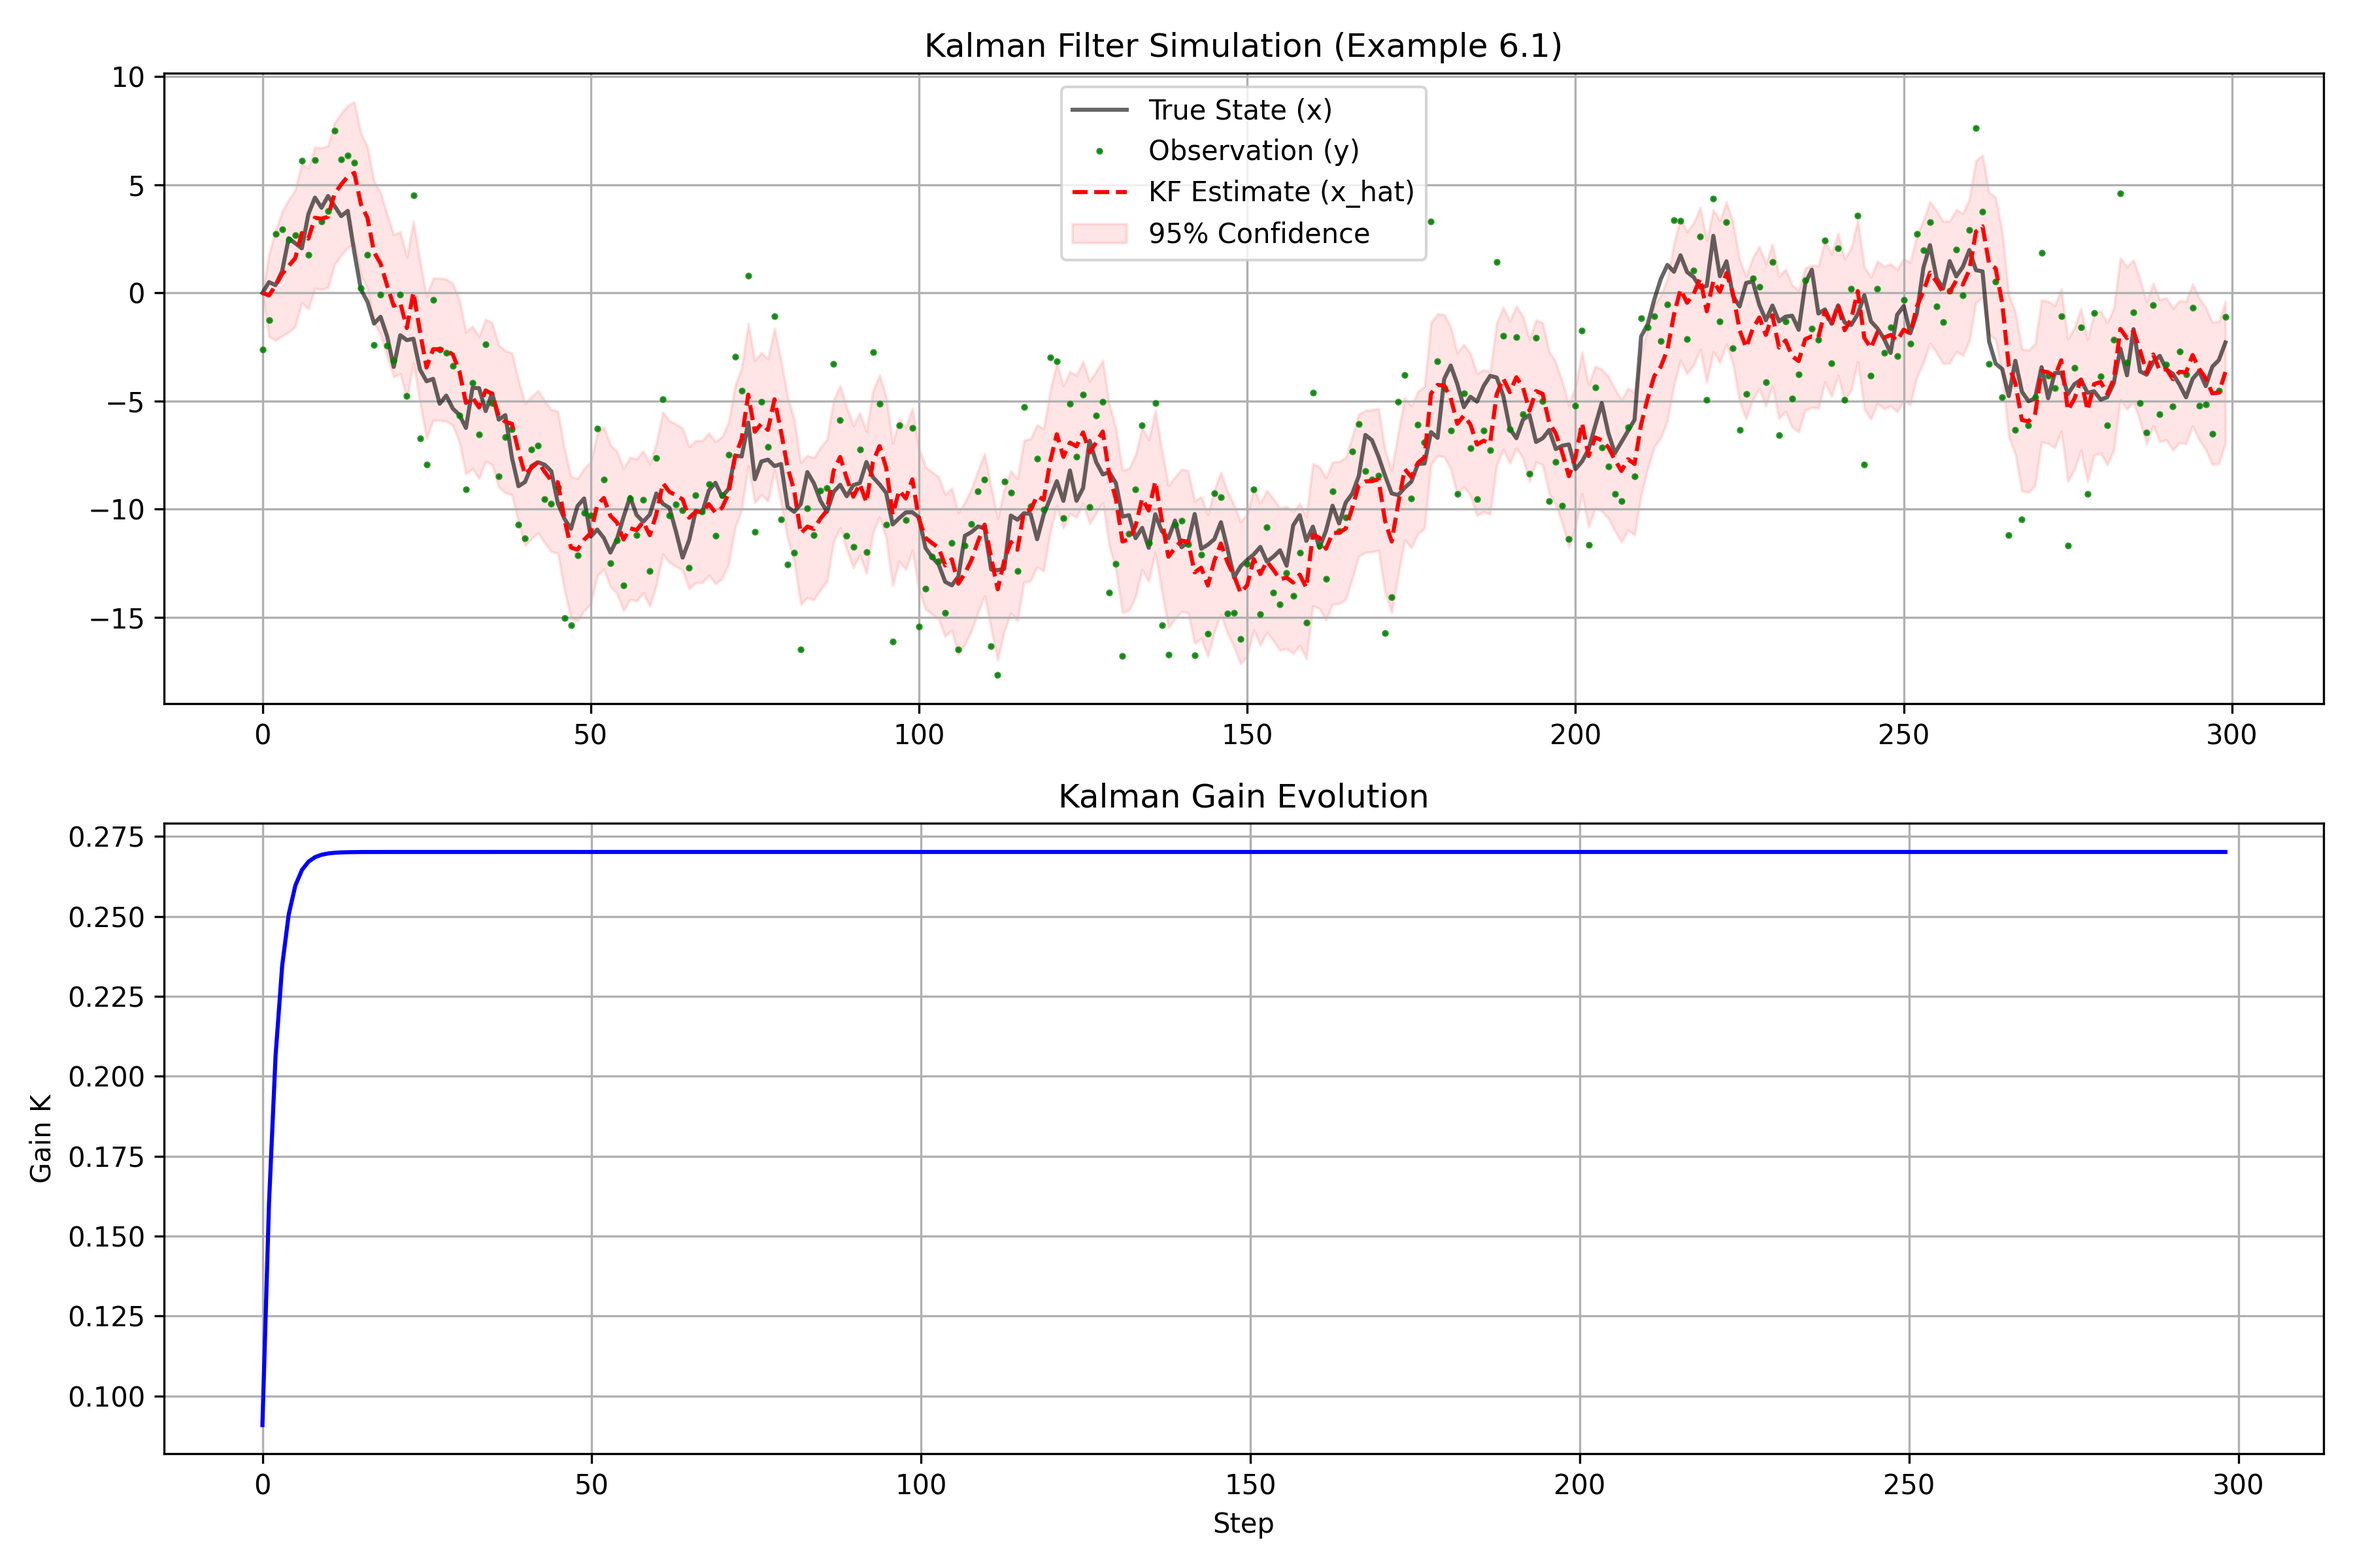
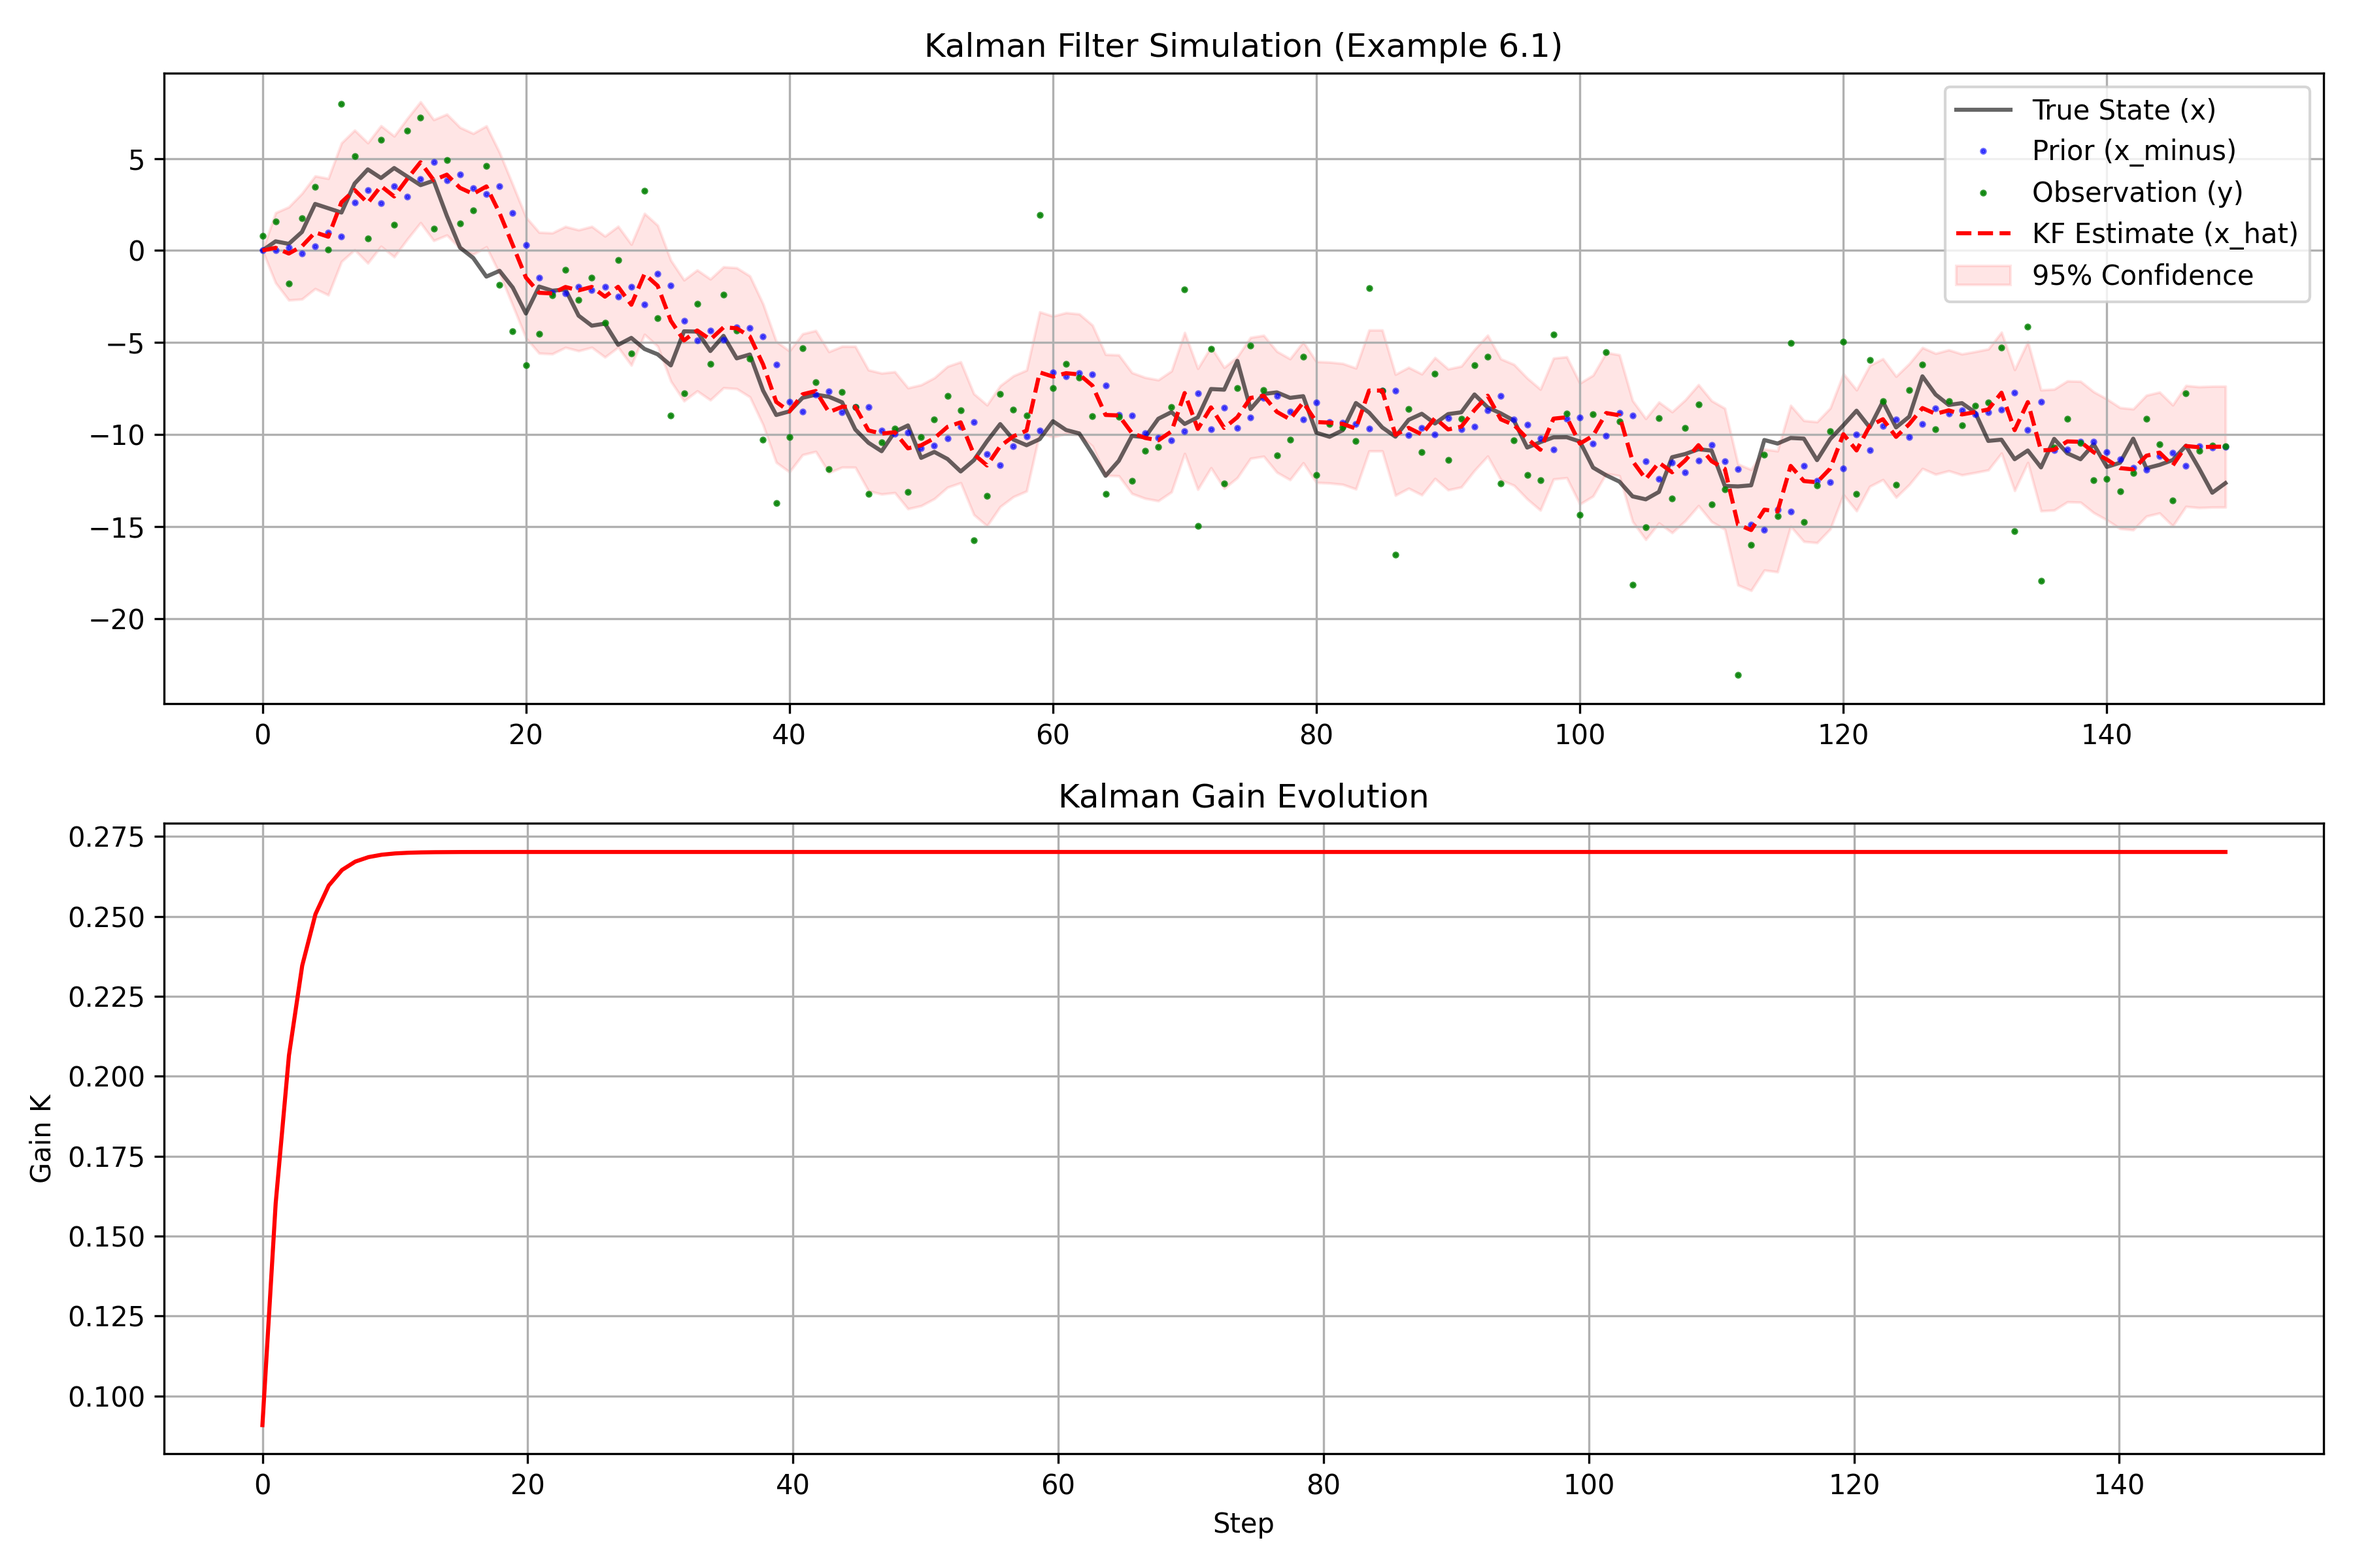
事前予測値も表示

diff --git a/カルマンフィルタの基礎/chapter_6/ex6_1.py b/カルマンフィルタの基礎/chapter_6/ex6_1.py
@@ -35,13 +35,14 @@ class ScalarKalmanFilter:
         1ステップ分のカルマンフィルタ演算を行う
         y: 観測値 (Observation)
         u: 入力 (Input)
-        return: 更新後の推定値 x, 共分散 P
+        return: 更新後の推定値 x, 共分散 P, 事前推定値 x_minus
         """
 
         # --- [STEP 1: 時間更新 (Time Update / Prediction)] ---
+        u_arr = np.atleast_2d(np.asarray(u, dtype=float))
 
         # 事前推定値 (x_minus) を計算
-        x_minus = self.A @ self.x
+        x_minus = self.A @ self.x + self.B @ u_arr
 
         # 事前誤差共分散 (P_minus) を計算
         #   ダイナミクスA と，プロセスノイズQ により不確実性が増大する
@@ -70,7 +71,7 @@ class ScalarKalmanFilter:
         # ヒント: (1 - KC)P_minus の形です
         self.P = (np.eye(K.shape[0]) - K @ self.C) @ P_minus
 
-        return self.x.squeeze(), self.P.squeeze()
+        return self.x.squeeze(), self.P.squeeze(), x_minus.squeeze()
 
 
 # ==========================================
@@ -84,7 +85,7 @@ Q = 1.0  # プロセスノイズの分散
 R = 10.0  # 観測ノイズの分散
 
 # シミュレーション設定
-N = 300  # ステップ数
+N = 150  # ステップ数
 u = 0  # 入力は今回0とする => 正規白色雑音
 
 # 真のシステムのデータ生成 (Generative Process)
@@ -116,14 +117,17 @@ kf = ScalarKalmanFilter(A, B, C, Q, R, P_0, x_0)
 # 結果保存用
 x_est = np.zeros(N)
 P_history = np.zeros(N)
+x_minus_history = np.zeros(N)
 x_est[0] = x_0
 P_history[0] = P_0
+x_minus_history[0] = x_0
 
 # フィルタリングループ
 for k in range(1, N):
-    x_hat, P_hat = kf.step(y_obs[k], u)
-    x_est[k] = x_hat
-    P_history[k] = P_hat
+    x_hat, P_hat, x_minus = kf.step(y_obs[k], u)
+    x_minus_history[k] = x_minus  # 事前推定値（更新前の状態）
+    x_est[k] = x_hat  # 事後推定値
+    P_history[k] = P_hat  # 事後共分散
 
 # ==========================================
 # 4. 可視化
@@ -133,6 +137,9 @@ plt.figure(figsize=(12, 8))
 # 状態推定のプロット
 plt.subplot(2, 1, 1)
 plt.plot(x_true, "k-", label="True State (x)", alpha=0.6)  # 真値
+plt.plot(
+    x_minus_history, "b.", markersize=3, alpha=0.6, label="Prior (x_minus)"
+)  # 事前推定値
 plt.plot(y_obs, "g.", label="Observation (y)", alpha=0.8, markersize=3)  # 観測値
 plt.plot(x_est, "r--", label="KF Estimate (x_hat)")  # 推定値
 
@@ -154,7 +161,7 @@ plt.grid()
 
 # カルマンゲインの推移
 plt.subplot(2, 1, 2)
-plt.plot(kf.K_log, "b-")
+plt.plot(kf.K_log, "r-")
 plt.title("Kalman Gain Evolution")
 plt.xlabel("Step")
 plt.ylabel("Gain K")
